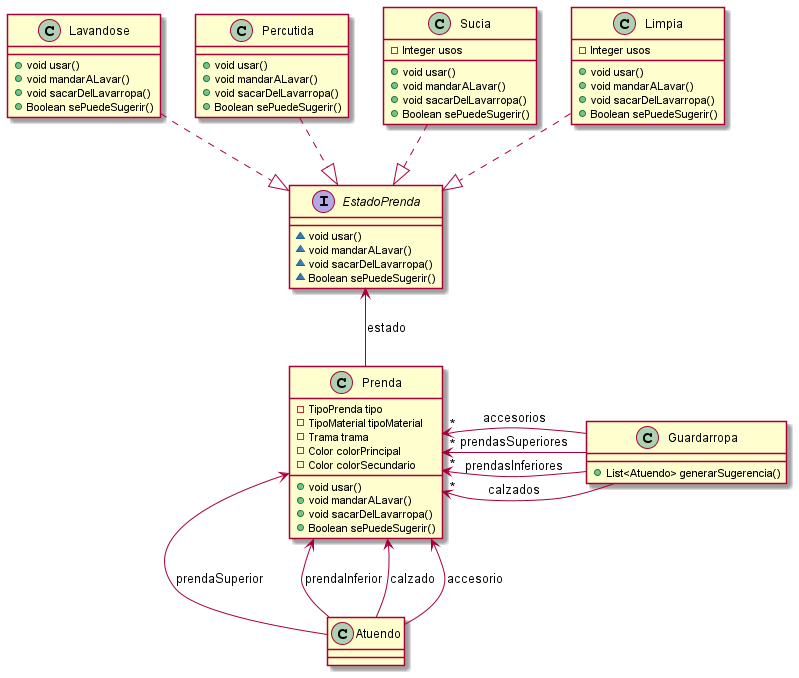
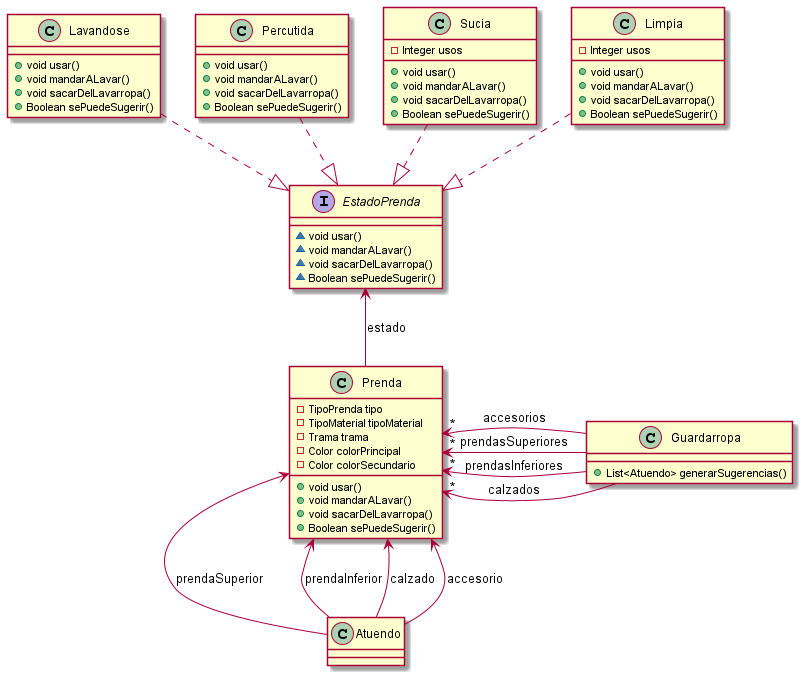
arreglo detalle

diff --git a/src/main/java/dominio/ropa/AtuendoQmp3.java b/src/main/java/dominio/ropa/AtuendoQmp3.java
@@ -28,7 +28,7 @@ class Guardarropa {
   private Set<Prenda> calzados;
   private Set<Prenda> accesorios;
 
-  public List<Atuendo> generarSugerencia() {
+  public List<Atuendo> generarSugerencias() {
     return Sets
         .cartesianProduct(prendasSuperiores, prendasInferiores, calzados, accesorios)
         .stream()

diff --git a/README.md b/README.md
@@ -49,7 +49,7 @@ class Guardarropa {
   private Set<Prenda> calzados;
   private Set<Prenda> accesorios;
 
-  public List<Atuendo> generarSugerencia() {
+  public List<Atuendo> generarSugerencias() {
     return Sets
         .cartesianProduct(prendasAptas(prendasSuperiores), prendasAptas(prendasInferiores), prendasAptas(calzados), prendasAptas(accesorios))
         .stream()
